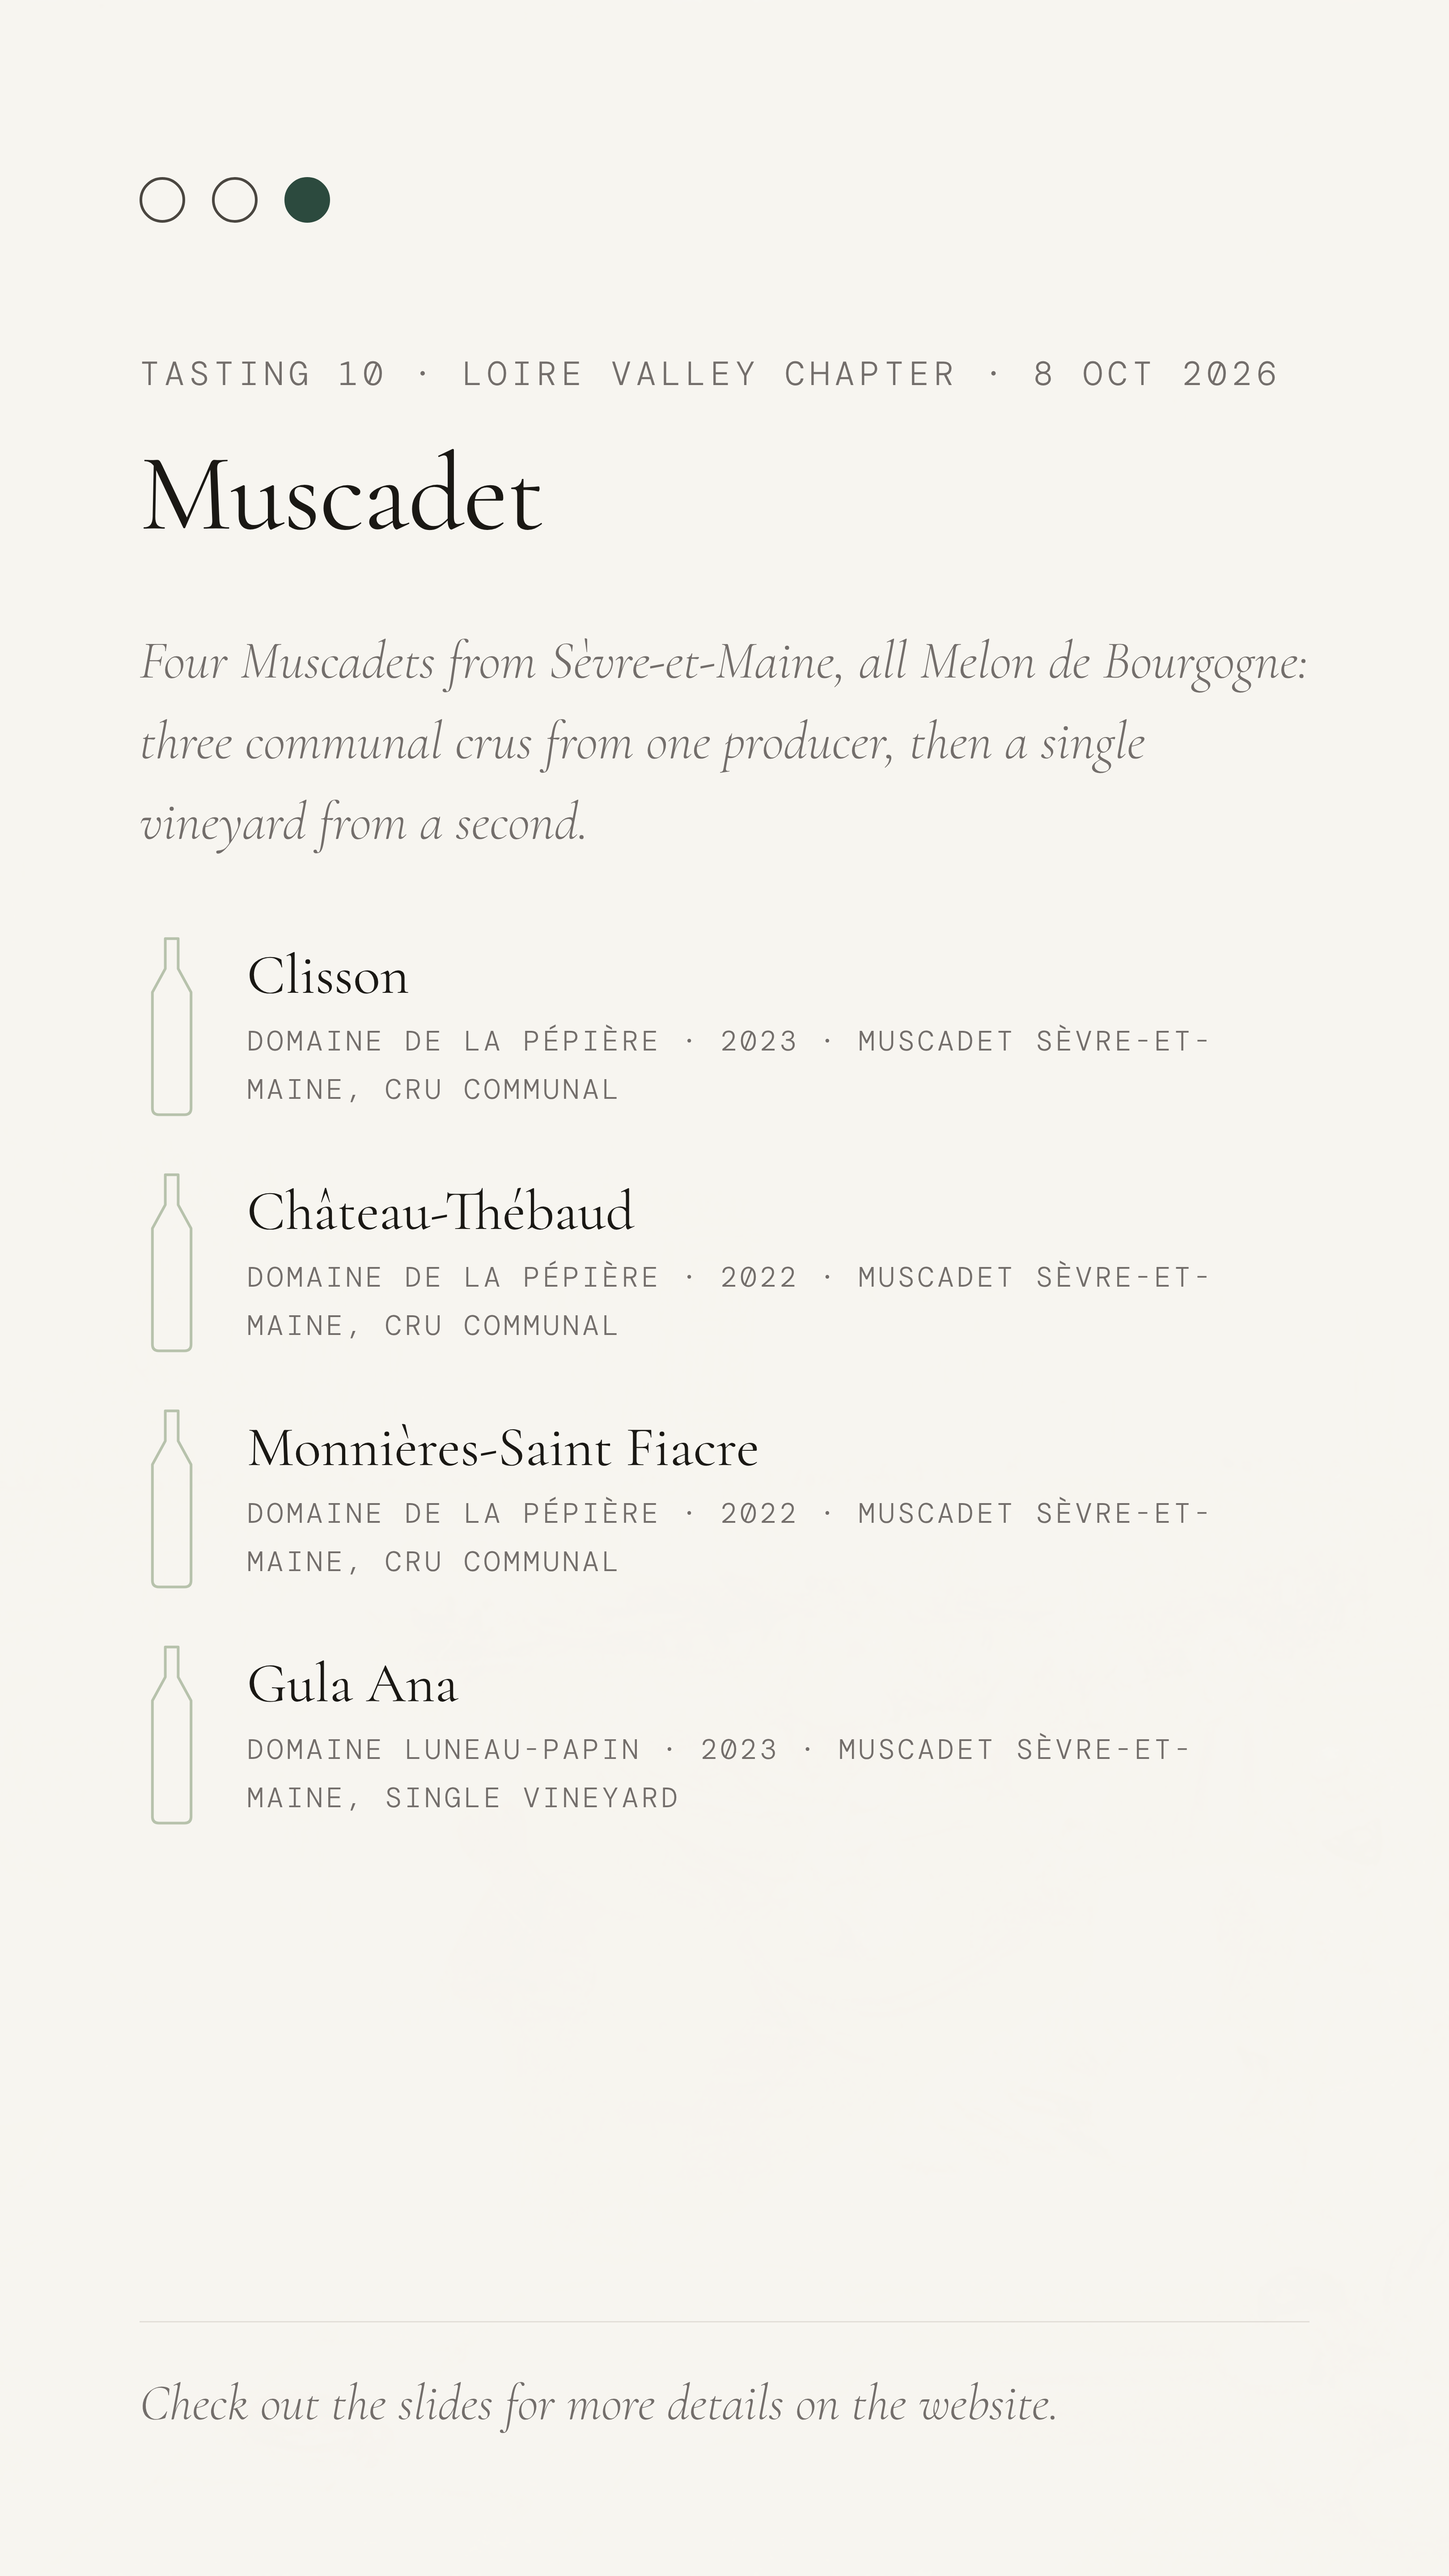
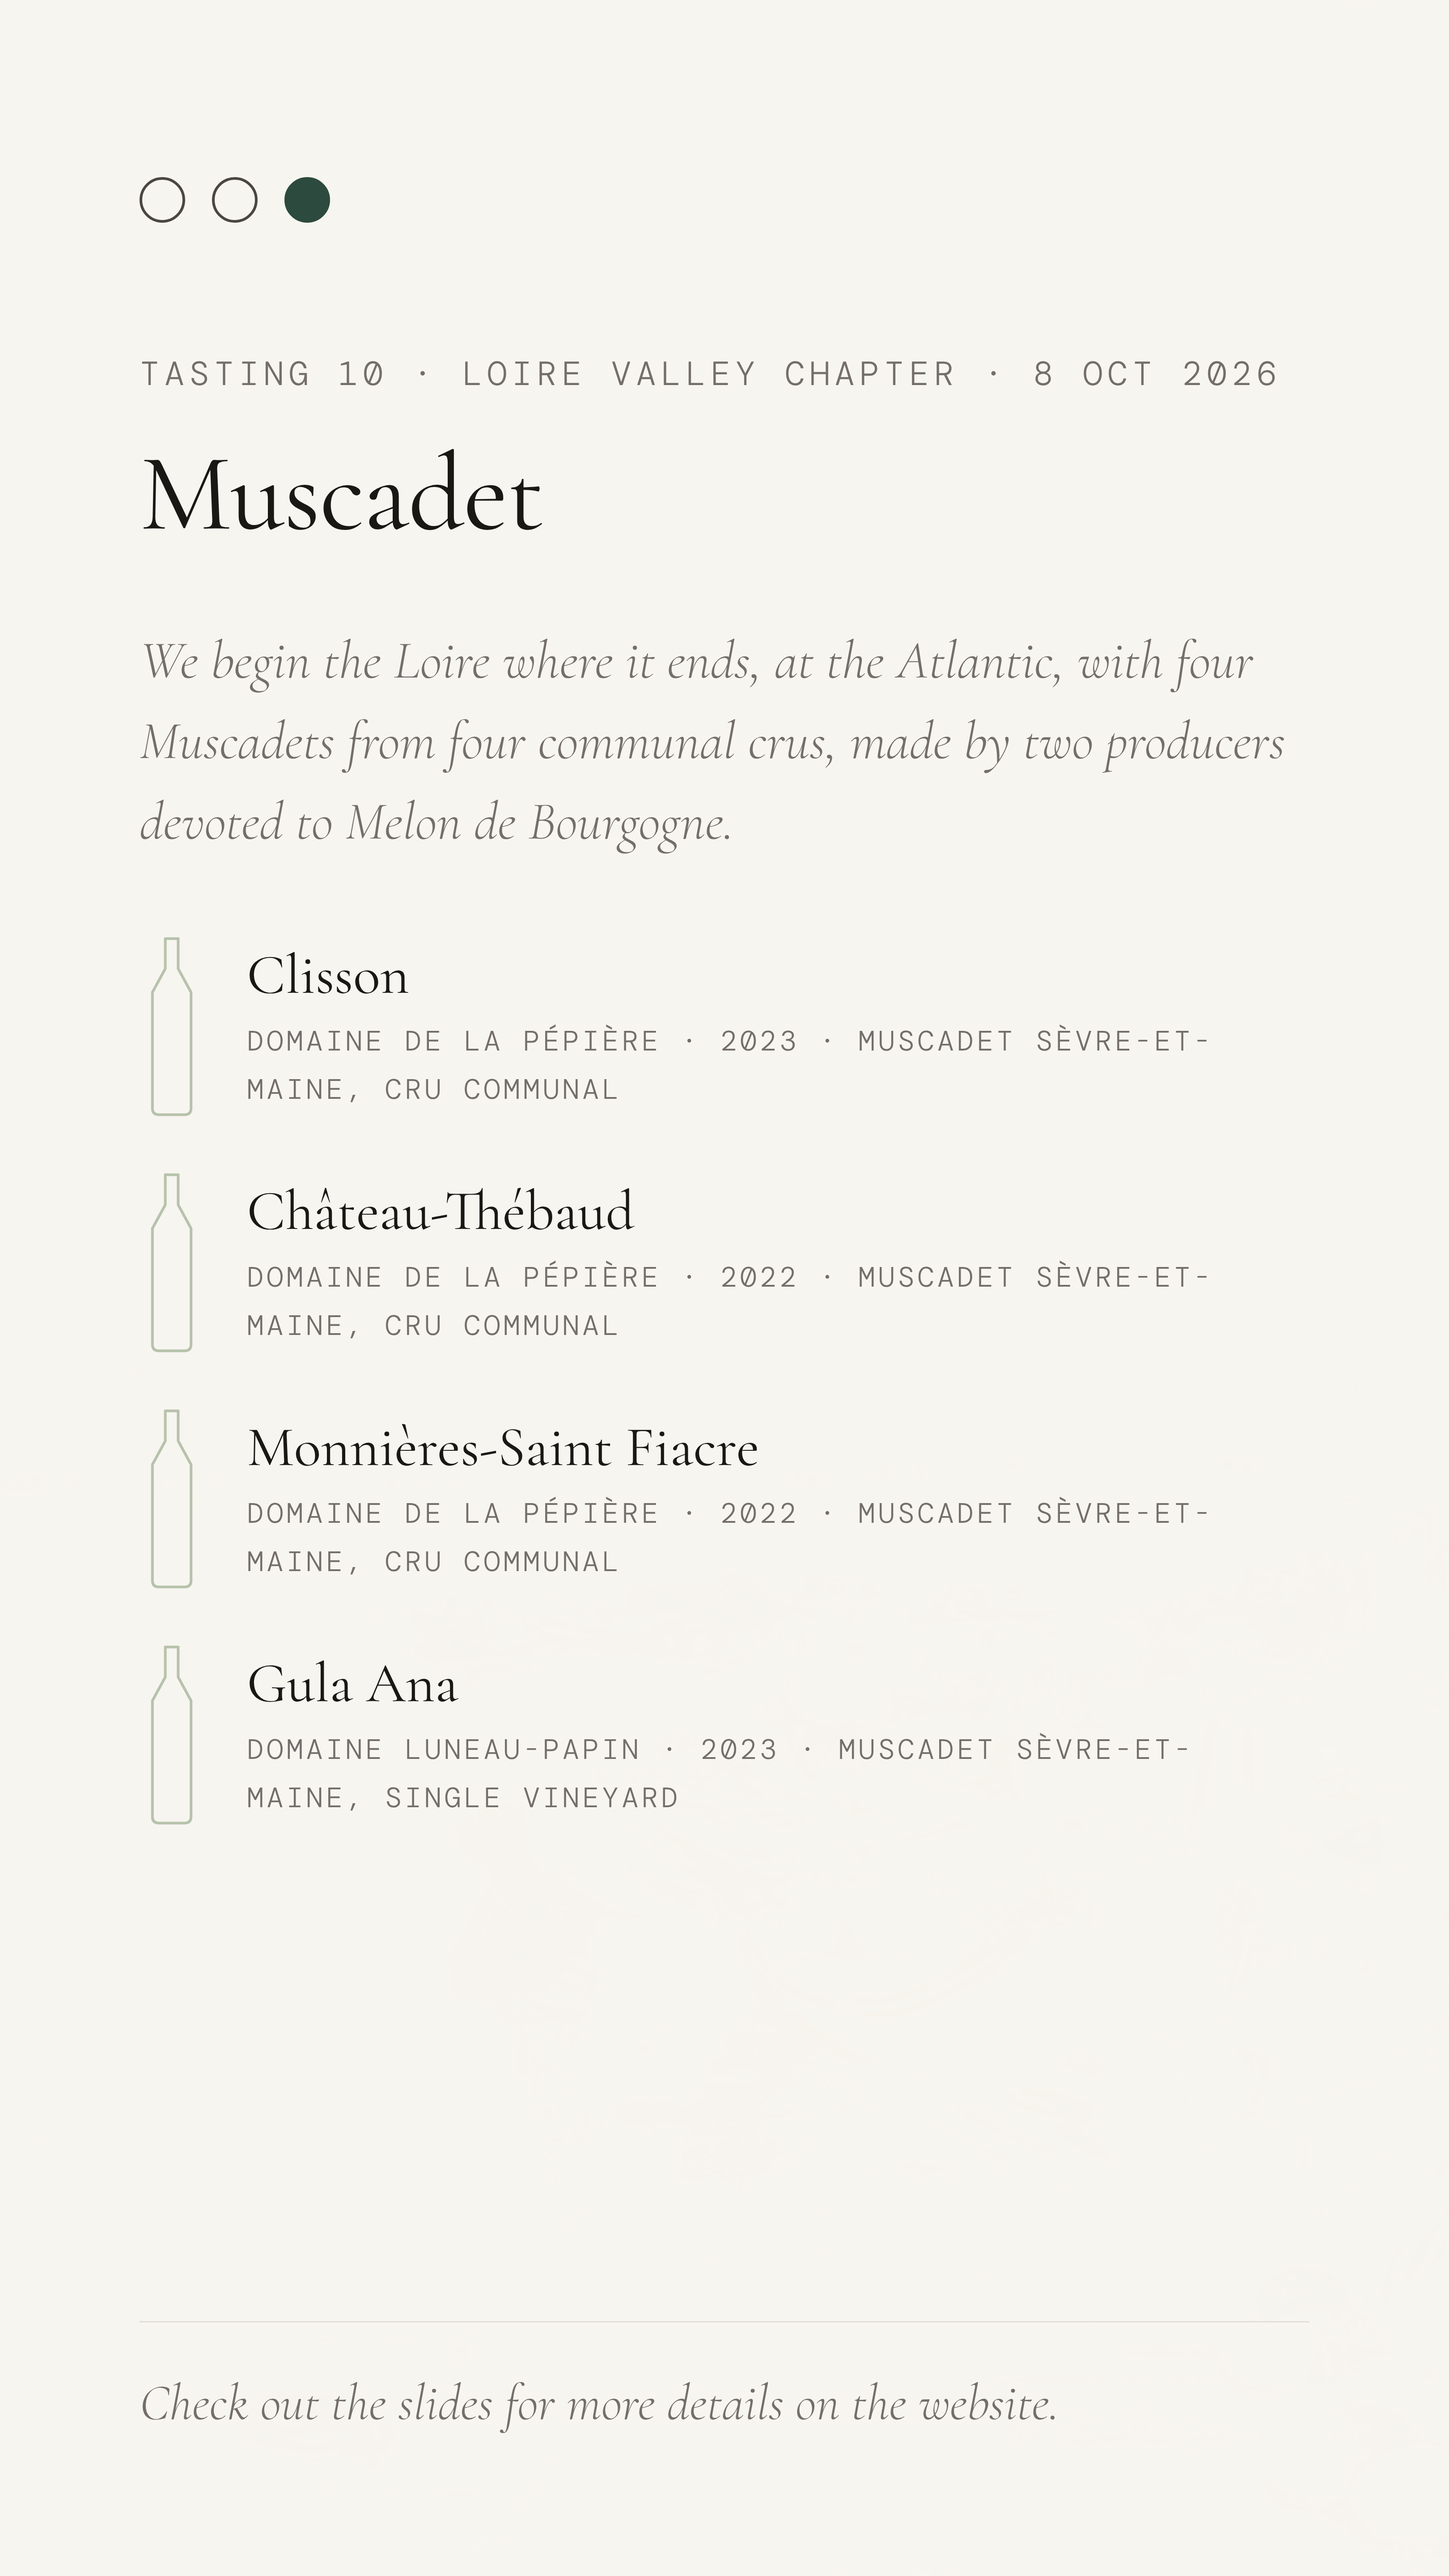
Muscadet post-tasting Stories: cover, one slide per wine, closing
story-20 (cover, recap.html) is regenerated with the published tasting
description; story-21..24 show each wine's published data plus the deck's
Lieu-Dit row (Gula Ana: Butte de la Roche); story-25 closes the set. New
story/recap-wine.html partial reuses existing story classes only.

Claude-Session: https://claude.ai/code/session_0145v5nxfhHnCDWTV3kyZCBK

Changed region(s): [[0.0935, 0.25, 0.4988, 0.3438], [0.4988, 0.25, 0.717, 0.3125], [0.717, 0.25, 0.8728, 0.3125]]

diff --git a/_includes/story/recap-wine.html b/_includes/story/recap-wine.html
@@ -1,0 +1,49 @@
+{% comment %}
+  Post-tasting detail slides that follow a recap.html cover: one per
+  wine, then a closing slide. Built from the existing story pieces
+  (dots, eyebrow, title, bottle glyph, rule, the teaser's facts rows,
+  bottom-pinned CTA line); no new styles. Wine facts are read live from
+  _data/tastings.yml; the lieu-dit is not a data field, so it is copied
+  from the deck's Lieu-Dit row into front matter.
+  Page front matter: tasting_slug, number, story_bg (offwhite|loire|...),
+  cta, and for a wine slide wine_index (1-based), wine_type (red|white),
+  lieu_dit (optional). Without wine_index the slide is the closing one.
+{% endcomment %}
+{% assign tasting = site.data.tastings | where: "slug", page.tasting_slug | first %}
+{% assign chapter = nil %}
+{% if tasting.chapter %}{% assign chapter = site.chapters | where: "slug", tasting.chapter | first %}{% endif %}
+{% assign total = tasting.wines.size %}
+<div class="story story--{{ page.story_bg }}">
+  <div class="story__inner">
+    {% include story/dots.html chapter=tasting.chapter %}
+    <p class="story-eyebrow">{% if chapter %}TASTING {{ page.number }} &middot; {{ chapter.story_label | upcase }}{% else %}ONE-OFF{% endif %} &middot; {{ tasting.date | date: "%-d %b %Y" | upcase }}</p>
+    {% if page.wine_index %}
+      {% assign wi = page.wine_index | minus: 1 %}
+      {% assign wine = tasting.wines[wi] %}
+      <p class="story-eyebrow" style="margin-bottom: 56px;">WINE {% if page.wine_index < 10 %}0{% endif %}{{ page.wine_index }} / {% if total < 10 %}0{% endif %}{{ total }}</p>
+      <div class="story-wine" style="margin-bottom: 56px;">
+        {% include story/bottle.html type=page.wine_type %}
+        <h1 class="story-title" style="margin-bottom: 0;">{{ wine.name }}</h1>
+      </div>
+      <hr class="story-rule" style="margin-bottom: 56px;">
+      <dl class="story-facts">
+        <dt>Producer</dt><dd>{{ wine.producer }}</dd>
+        <dt>Vintage</dt><dd>{{ wine.vintage }}</dd>
+        <dt>Appellation</dt><dd>{{ wine.appellation }}</dd>
+        {% if wine.blend %}<dt>Blend</dt><dd>{{ wine.blend }}</dd>{% endif %}
+        {% if page.lieu_dit %}<dt>Lieu-dit</dt><dd>{{ page.lieu_dit }}</dd>{% endif %}
+      </dl>
+    {% else %}
+      {% assign producers = tasting.wines | map: "producer" | uniq %}
+      <h1 class="story-title">{{ tasting.title }}</h1>
+      <hr class="story-rule" style="margin-bottom: 56px;">
+      <dl class="story-facts">
+        {% if chapter %}<dt>Chapter</dt><dd>{{ chapter.title }}</dd>{% endif %}
+        <dt>Date</dt><dd>{{ tasting.date | date: "%A %-d %B %Y" }}</dd>
+        <dt>Wines</dt><dd>{{ total }}</dd>
+        <dt>Producers</dt><dd>{{ producers | join: "<br>" }}</dd>
+      </dl>
+    {% endif %}
+    <p class="story-italic story-teaser__cta">{{ page.cta }}</p>
+  </div>
+</div>

diff --git a/assets/social/instagram/stories/src/story-20-muscadet-recap.html b/assets/social/instagram/stories/src/story-20-muscadet-recap.html
@@ -9,9 +9,9 @@ story_bg: offwhite
 texture_image: /assets/tastings/muscadet/cover.png
 texture_opacity: 0.14
 intro: >
-  Four Muscadets from Sèvre-et-Maine, all Melon de Bourgogne: three
-  communal crus from one producer, then a single vineyard from a
-  second.
+  We begin the Loire where it ends, at the Atlantic, with four Muscadets
+  from four communal crus, made by two producers devoted to Melon de
+  Bourgogne.
 wine_types: [white, white, white, white]
 closing: "Check out the slides for more details on the website."
 ---

diff --git a/assets/social/instagram/stories/src/story-23-muscadet-03-monnieres-saint-fiacre.html b/assets/social/instagram/stories/src/story-23-muscadet-03-monnieres-saint-fiacre.html
@@ -1,0 +1,13 @@
+---
+layout: story
+story_type: recap-wine
+permalink: /stories/story-23-muscadet-03-monnieres-saint-fiacre.html
+sitemap: false
+tasting_slug: muscadet
+number: "10"
+story_bg: loire
+wine_index: 3
+wine_type: white
+lieu_dit: "Monnières-Saint Fiacre · Gneiss"
+cta: "Check out the slides for more details on the website."
+---

diff --git a/assets/social/instagram/stories/src/story-22-muscadet-02-chateau-thebaud.html b/assets/social/instagram/stories/src/story-22-muscadet-02-chateau-thebaud.html
@@ -1,0 +1,13 @@
+---
+layout: story
+story_type: recap-wine
+permalink: /stories/story-22-muscadet-02-chateau-thebaud.html
+sitemap: false
+tasting_slug: muscadet
+number: "10"
+story_bg: offwhite
+wine_index: 2
+wine_type: white
+lieu_dit: "Château-Thébaud · Granodiorite"
+cta: "Check out the slides for more details on the website."
+---

diff --git a/assets/social/instagram/stories/src/story-24-muscadet-04-gula-ana.html b/assets/social/instagram/stories/src/story-24-muscadet-04-gula-ana.html
@@ -1,0 +1,13 @@
+---
+layout: story
+story_type: recap-wine
+permalink: /stories/story-24-muscadet-04-gula-ana.html
+sitemap: false
+tasting_slug: muscadet
+number: "10"
+story_bg: offwhite
+wine_index: 4
+wine_type: white
+lieu_dit: "Butte de la Roche · Sandy soil"
+cta: "Check out the slides for more details on the website."
+---

diff --git a/assets/social/instagram/stories/src/story-21-muscadet-01-clisson.html b/assets/social/instagram/stories/src/story-21-muscadet-01-clisson.html
@@ -1,0 +1,13 @@
+---
+layout: story
+story_type: recap-wine
+permalink: /stories/story-21-muscadet-01-clisson.html
+sitemap: false
+tasting_slug: muscadet
+number: "10"
+story_bg: loire
+wine_index: 1
+wine_type: white
+lieu_dit: "Clisson · Granite"
+cta: "Check out the slides for more details on the website."
+---

diff --git a/_layouts/story.html b/_layouts/story.html
@@ -33,6 +33,8 @@
     {% include story/recap.html %}
   {% elsif page.story_type == "teaser" %}
     {% include story/teaser.html %}
+  {% elsif page.story_type == "recap-wine" %}
+    {% include story/recap-wine.html %}
   {% endif %}
 </body>
 </html>

diff --git a/assets/social/instagram/stories/src/story-25-muscadet-closing.html b/assets/social/instagram/stories/src/story-25-muscadet-closing.html
@@ -1,0 +1,10 @@
+---
+layout: story
+story_type: recap-wine
+permalink: /stories/story-25-muscadet-closing.html
+sitemap: false
+tasting_slug: muscadet
+number: "10"
+story_bg: loire
+cta: "Check out the slides for more details on the website."
+---
